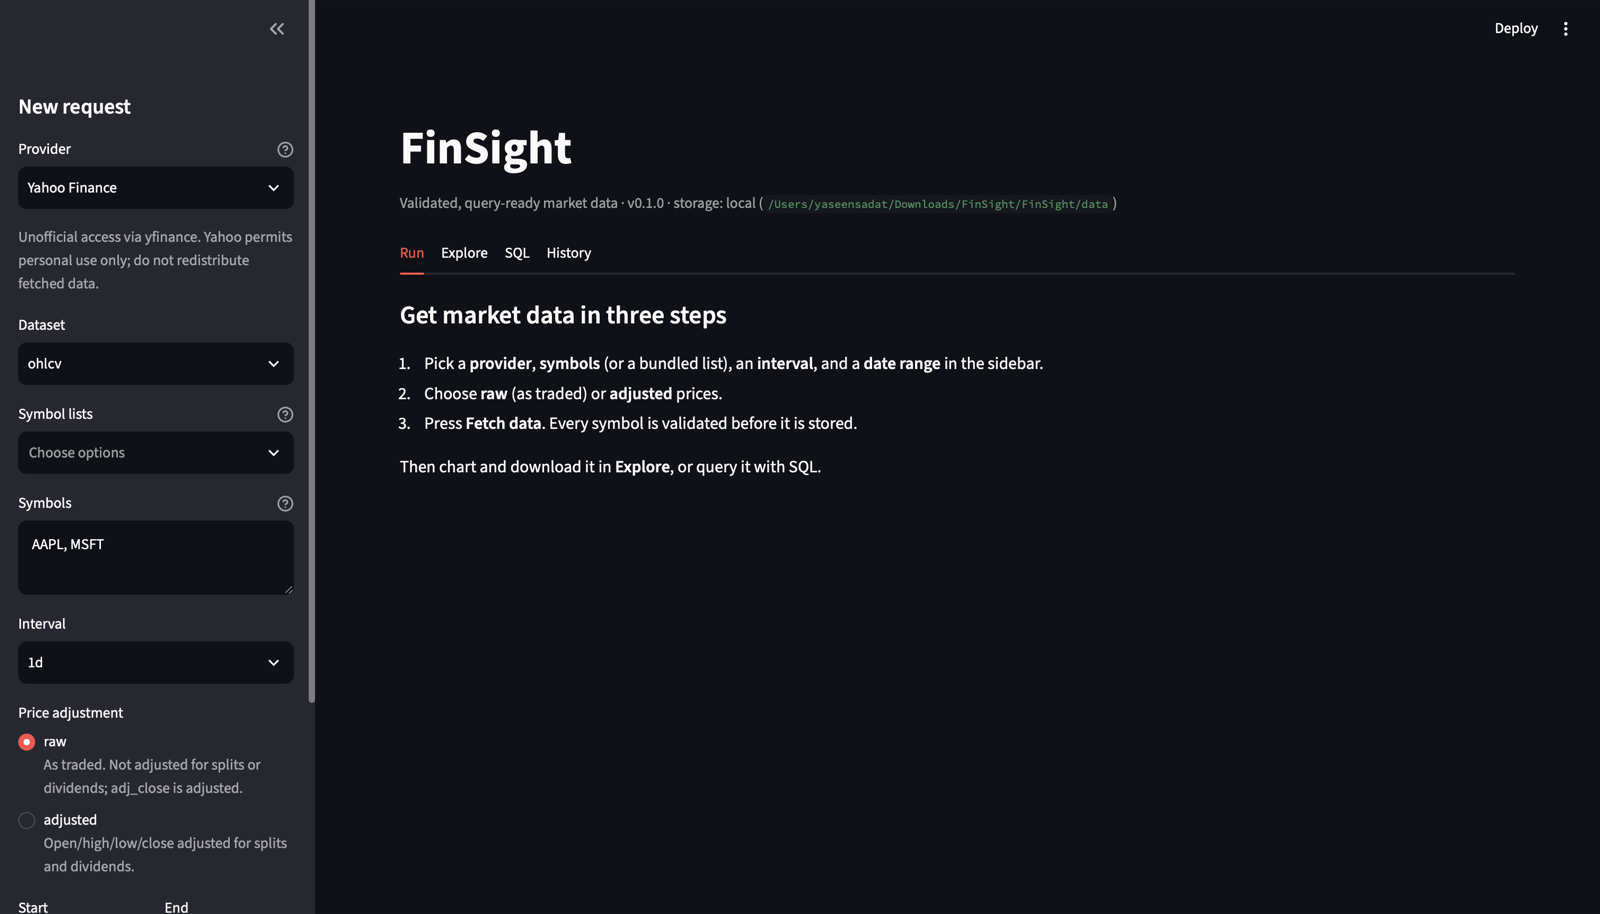
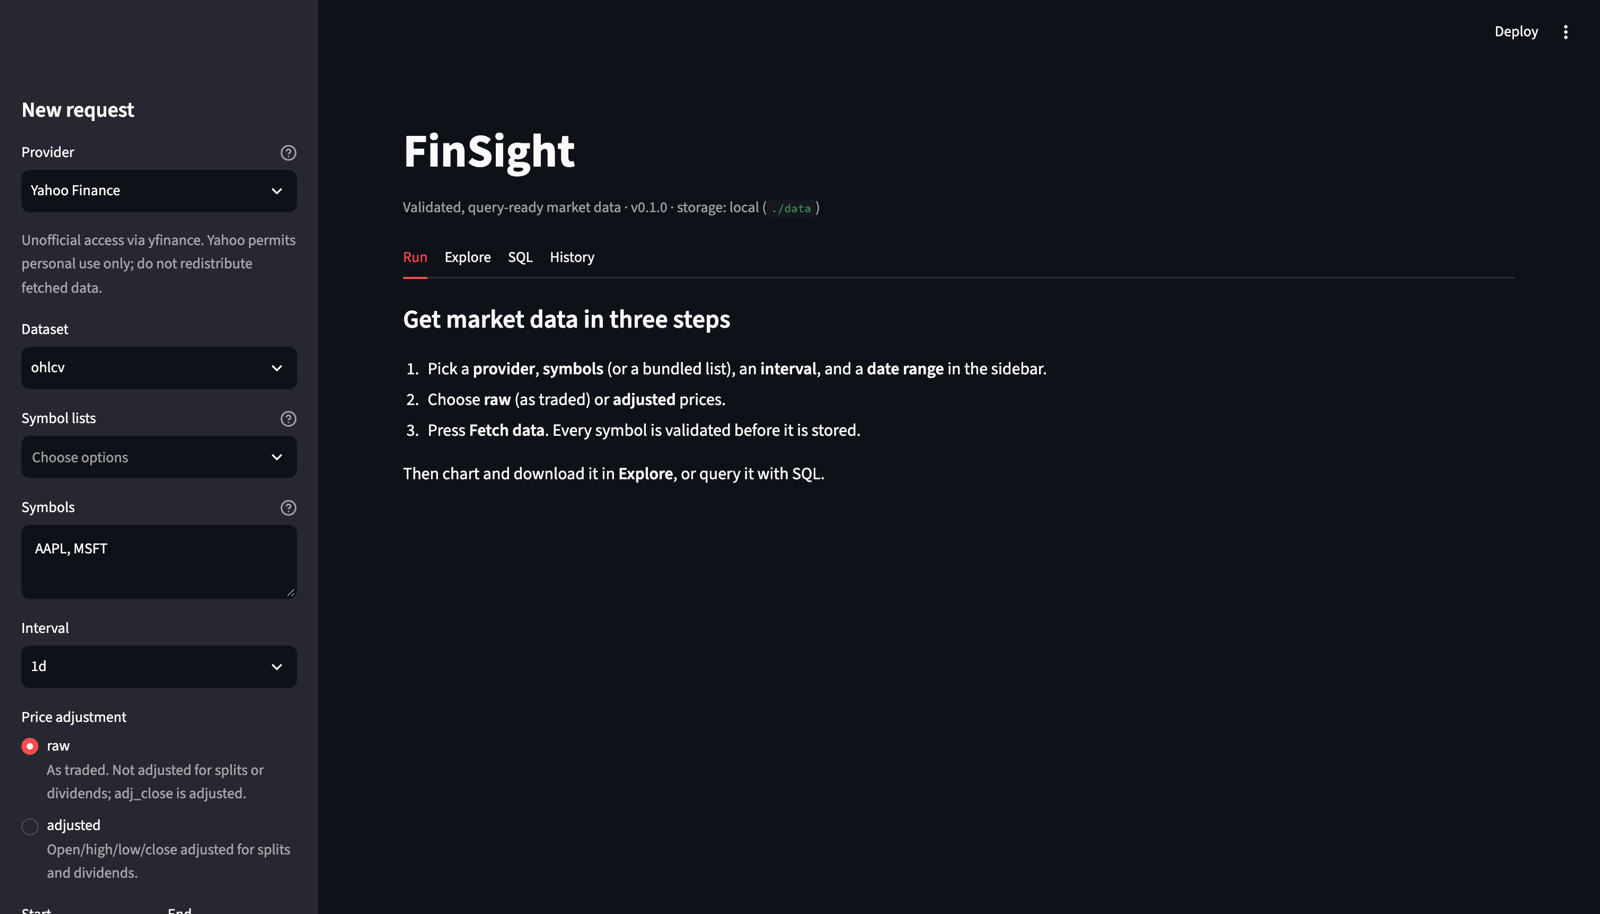
Implement display_location method to provide shareable data storage paths and update UI to use this method

diff --git a/src/finsight/cli.py b/src/finsight/cli.py
@@ -258,19 +258,13 @@ def _print_run(manifest: RunManifest, settings: Settings) -> None:
     counts = ", ".join(f"{count} {status}" for status, count in manifest.counts().items())
     console.print(f"Run [bold]{manifest.run_id}[/] [{style}]{manifest.status.value}[/] ({counts})")
     if any(r.status == SymbolStatus.PUBLISHED for r in manifest.symbols.values()):
-        console.print(f"Data: [cyan]{_location(settings)}[/]")
+        console.print(f"Data: [cyan]{settings.display_location()}[/]")
         console.print(
             'Next: [cyan]finsight query "SELECT * FROM ohlcv LIMIT 10"[/]  '
             "or  [cyan]finsight catalog[/]"
         )
     if any(r.status in FAILURE_STATUSES for r in manifest.symbols.values()):
         console.print(f"Details: [cyan]finsight runs show {manifest.run_id}[/]")
-
-
-def _location(settings: Settings) -> str:
-    if settings.storage == "local":
-        return str(settings.data_dir.resolve())
-    return f"s3://{settings.s3_bucket}/{settings.s3_prefix}".rstrip("/")
 
 
 def _fmt(value: int | None) -> str:

diff --git a/src/finsight/config.py b/src/finsight/config.py
@@ -128,6 +128,24 @@ class Settings:
             ),
         )
 
+    def display_location(self) -> str:
+        """Short, shareable description of where data is stored.
+
+        Local paths are shown relative to the working directory (or ``~``) so
+        screenshots and logs don't expose the full filesystem layout.
+        """
+        if self.storage == "s3":
+            return f"s3://{self.s3_bucket}/{self.s3_prefix}".rstrip("/")
+        path = self.data_dir.expanduser().resolve()
+        for base, prefix in ((Path.cwd().resolve(), "."), (Path.home().resolve(), "~")):
+            if base == Path(base.anchor):
+                continue  # relative to "/" would still expose the full path
+            try:
+                return f"{prefix}/{path.relative_to(base).as_posix()}"
+            except ValueError:
+                continue
+        return path.as_posix()
+
     def describe(self) -> dict[str, Any]:
         """Return a printable view of the settings with secrets masked."""
 

diff --git a/tests/test_config.py b/tests/test_config.py
@@ -62,3 +62,16 @@ def test_dotenv_is_loaded(tmp_path: Path, monkeypatch: pytest.MonkeyPatch) -> No
     (tmp_path / ".env").write_text("FINSIGHT_MAX_WORKERS=7\n")
     monkeypatch.delenv("FINSIGHT_MAX_WORKERS", raising=False)
     assert Settings.from_env().max_workers == 7
+
+
+def test_display_location_hides_absolute_paths(
+    tmp_path: Path, monkeypatch: pytest.MonkeyPatch
+) -> None:
+    monkeypatch.chdir(tmp_path)
+    assert Settings(data_dir=tmp_path / "data").display_location() == "./data"
+    assert Settings(data_dir=Path("data")).display_location() == "./data"
+    monkeypatch.setattr(Path, "home", lambda: tmp_path.parent)
+    monkeypatch.chdir("/")
+    assert Settings(data_dir=tmp_path / "data").display_location() == f"~/{tmp_path.name}/data"
+    s3 = Settings(storage="s3", s3_bucket="finsight", s3_prefix="team")
+    assert s3.display_location() == "s3://finsight/team"

diff --git a/src/finsight/ui/app.py b/src/finsight/ui/app.py
@@ -476,10 +476,9 @@ def main() -> None:
         st.stop()
 
     st.title("FinSight")
-    location = current.data_dir.resolve() if current.storage == "local" else current.s3_bucket
     st.caption(
         f"Validated, query-ready market data · v{__version__} · storage: "
-        f"{current.storage} (`{location}`)"
+        f"{current.storage} (`{current.display_location()}`)"
     )
 
     request, engine = request_form()
